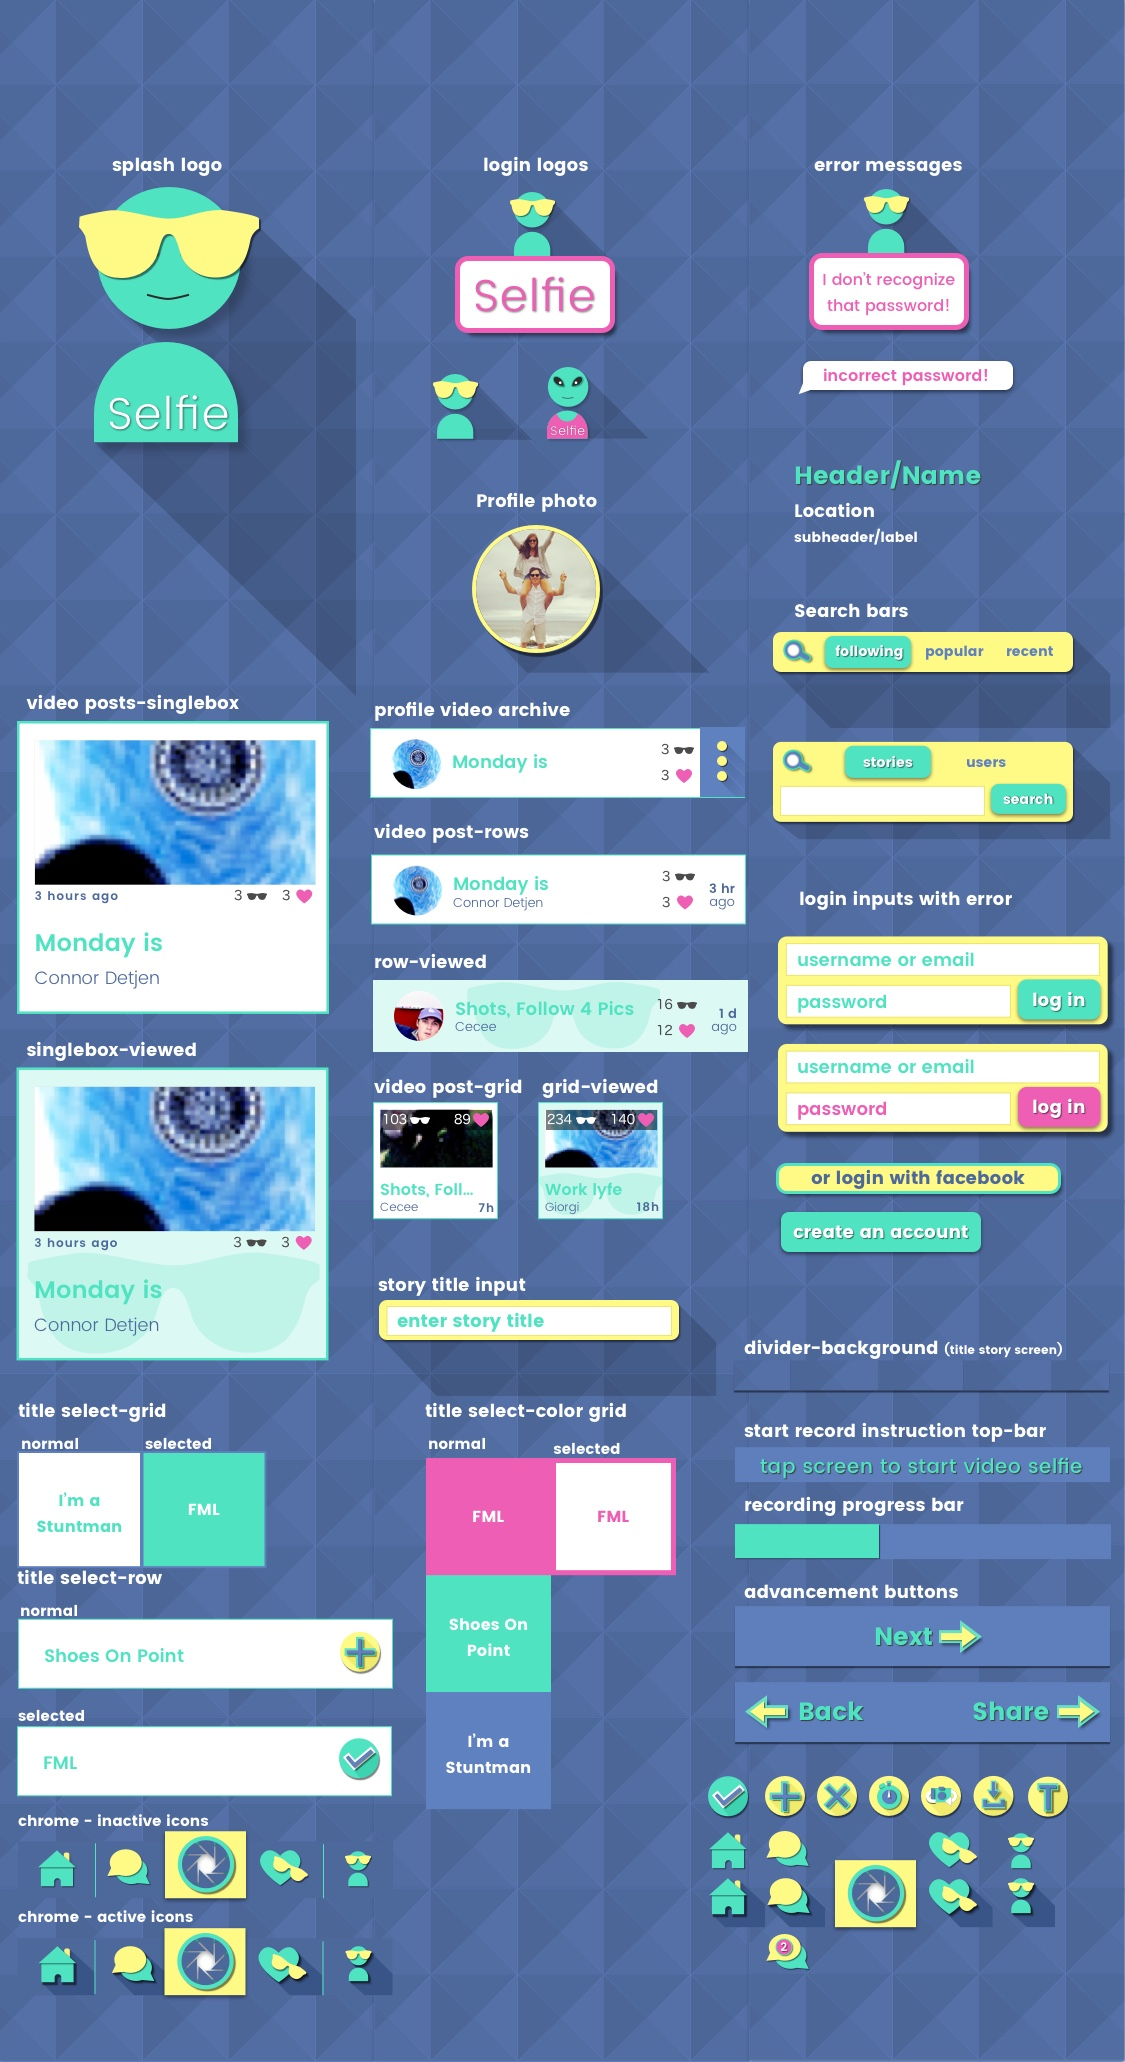
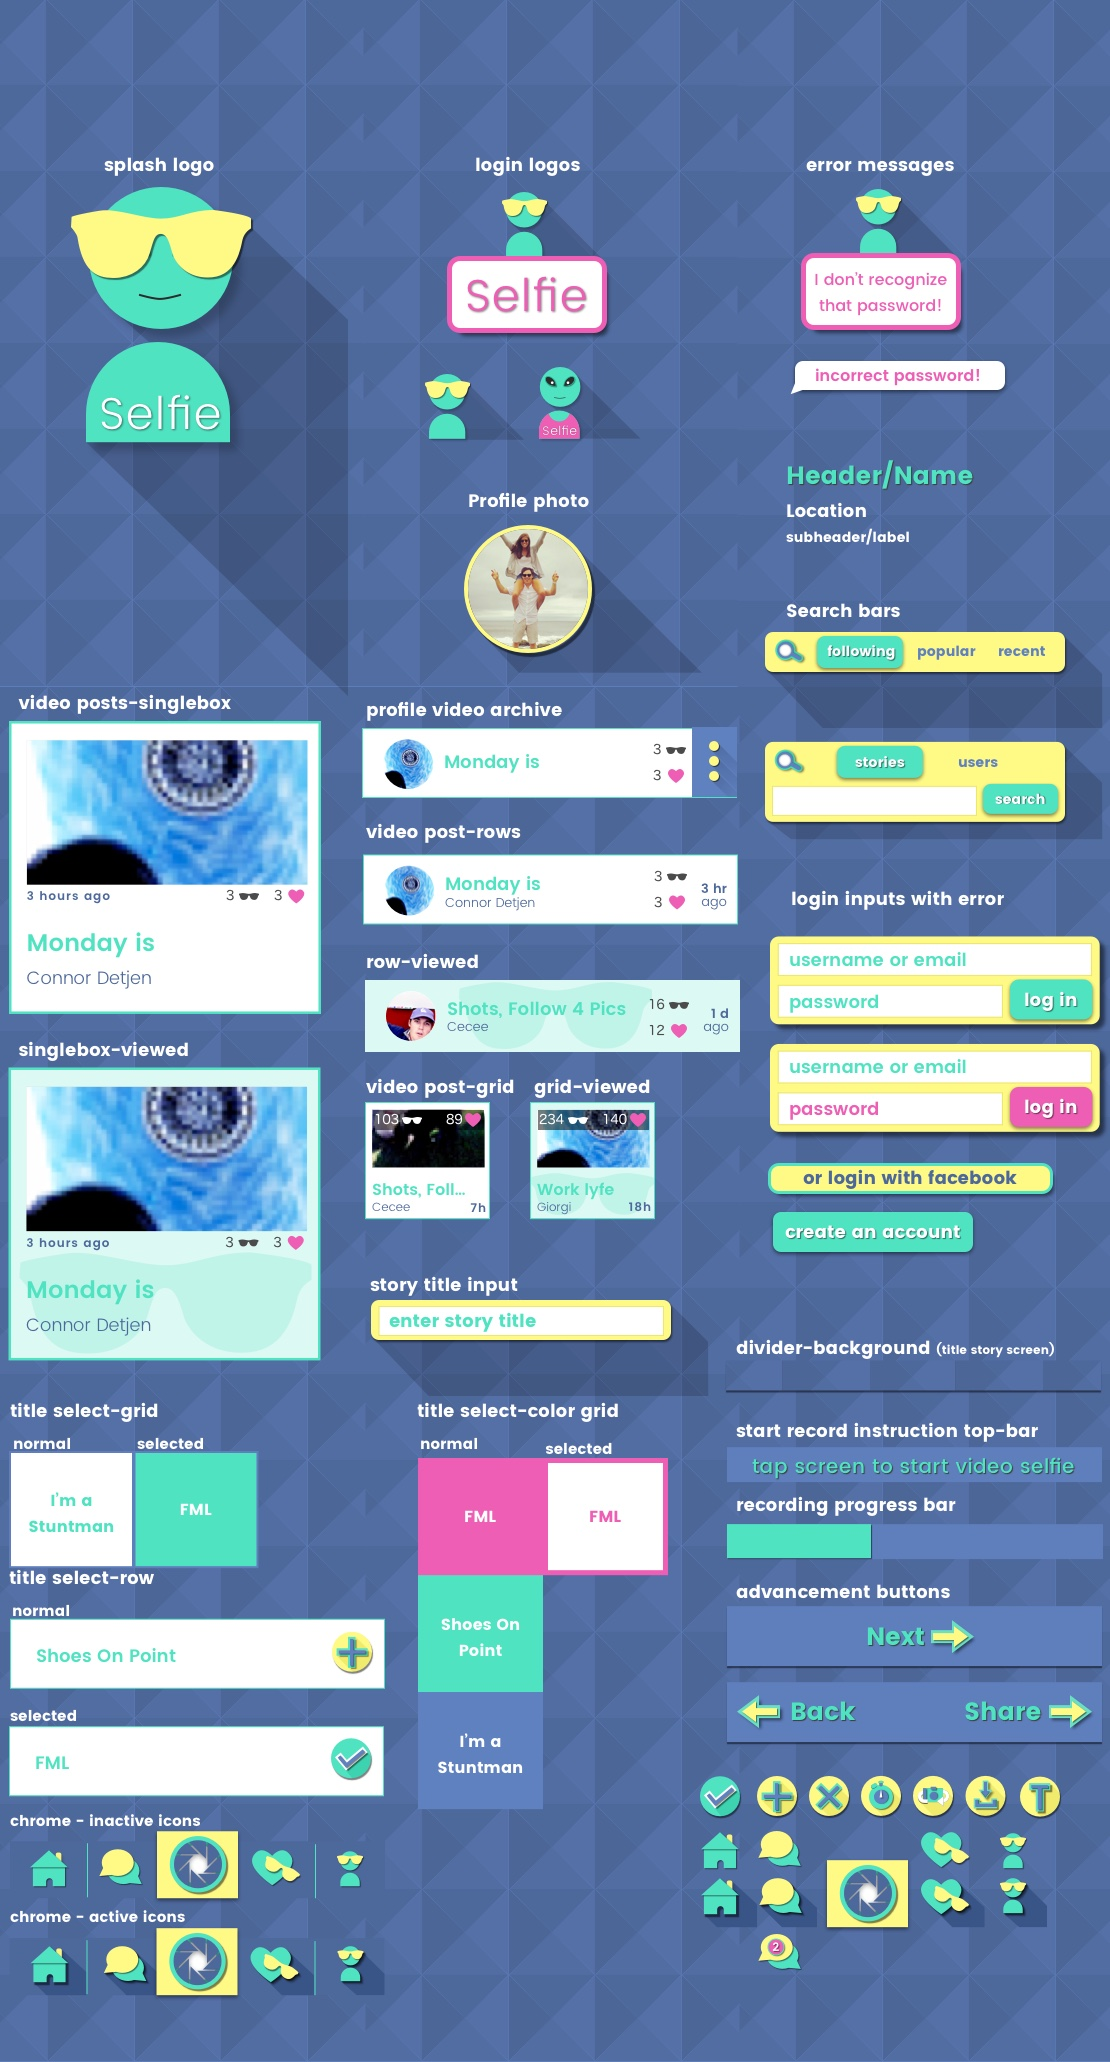
update

diff --git a/css/project.css b/css/project.css
@@ -90,6 +90,7 @@ p {
     box-shadow: 0px 5px 15px rgba(33,33,33,0.6);
     vertical-align: top;
     margin: 0 auto;
+
 }
 
 .images-phone{
@@ -107,14 +108,14 @@ p {
 }
 .styleTiles{
     display: inline-block;
-    width: 20%;
+    width: 300px;
     margin: 10px 10px 30px;
 }
 
 .final{
     display: inline-block;
     margin: 20px auto;
-    width: 80%;
+    width: 500px;
 }
 .devices{
     height: 200px;
@@ -152,14 +153,15 @@ i {
 
 .sms-bg-dark  {
     color: #333;
-    
     padding: 10% 0;
+    width: 100%;
 }
 
 .selfie-bg-dark  {
     color: #fff;
     /*background-image: url(../portfolio-pages/selfie/divider_background.png);*/
     background-position: center;
+    width: 100%;
 }
 
 .pulse-bg-dark {
@@ -169,6 +171,7 @@ i {
     background: -moz-linear-gradient(45deg, #4584D9, #4CE2A1); /* For Firefox 3.6 to 15 */
     background: linear-gradient(45deg, #4584D9, #4CE2A1); /* Standard syntax */
     padding: 10% 0;
+
 }
 
 .text-faded {

diff --git a/smart_yeti2.html b/smart_yeti2.html
@@ -179,7 +179,7 @@
                      <div class="service-box">
                          <h3>Final Style Tile</h3>
                          <p class="text-muted">After seeing all my style explorations, the owner liked the directions both clean and sleek, but also the fun flat design. In my final style tile and direction, I wanted to combine both styles that would really speak back to his original branding of 'smart, but approachable'.</p>
-                        <img class="images final img-responsive" src="portfolio-pages/sms/style_tile_final.png" alt="" width="50%">
+                        <img class="images final img-responsive" src="portfolio-pages/sms/style_tile_final.png" alt="">
                     </div>
                 </div>
                 <div class="service-box text-center">

diff --git a/selfie.html b/selfie.html
@@ -193,7 +193,7 @@
                     <div class="service-box">
                         <h3>UI Kit</h3>
                         <p class="text-muted">One of the final deliverables was a UI kit handed to the Selfie guys along with 1x, 2x retina, and 3x retinaHD assets and screen designs.</p>
-                         <img class="images img-responsive" src="portfolio-pages/selfie/selfie_UI_kit.jpg" alt="" width="50%">
+                         <img class="images img-responsive" src="portfolio-pages/selfie/selfie_UI_kit.jpg" alt="">
                     </div>   
                 </div>
         </div>
